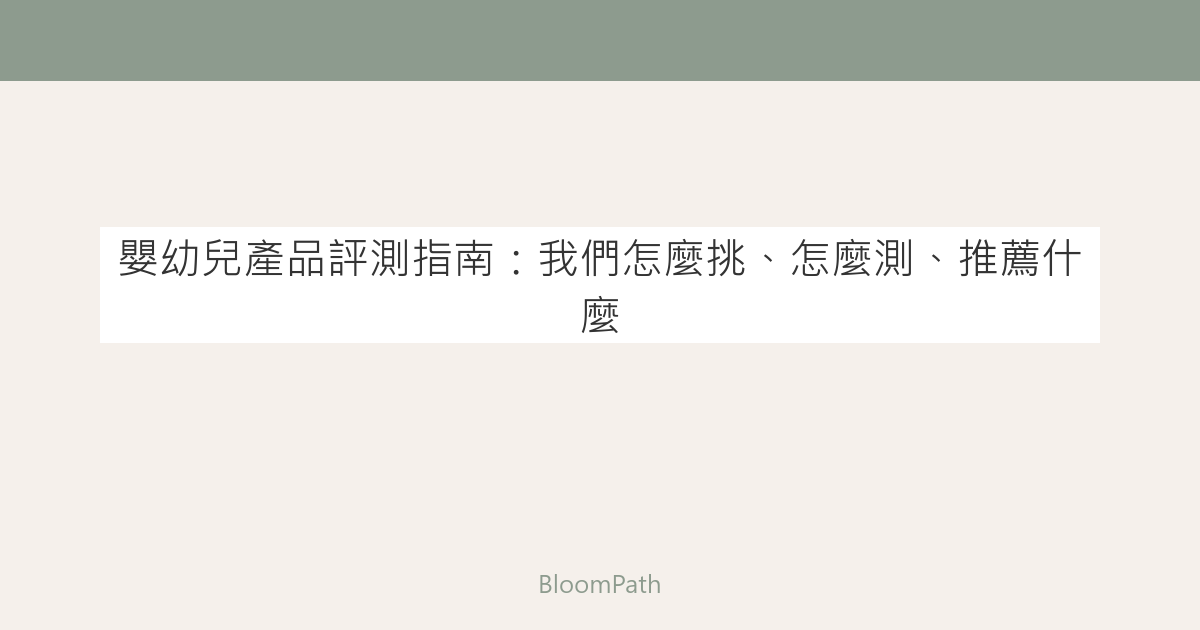
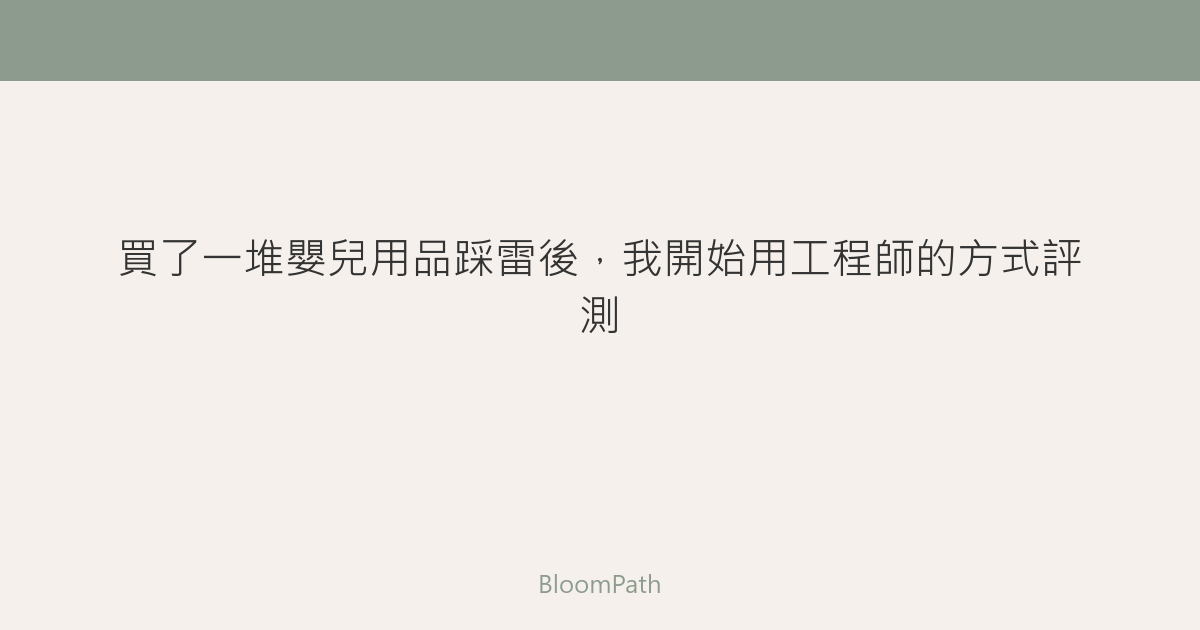
Refactor: 將 10 篇 BP ZH 文章標題改成生活化風格，重新生成對應 OG 圖

Changed region(s): [[0.0925, 0.3619, 0.925, 0.5429]]

diff --git a/src/content/blog/unstructured-play-benefits-zh.md b/src/content/blog/unstructured-play-benefits-zh.md
@@ -1,5 +1,5 @@
 ---
-title: "讓孩子好好玩！非結構遊戲比才藝班更重要的科學理由"
+title: "我把女兒所有才藝班都退了——結果她反而學得更好"
 description: "台灣父母拼命送孩子去才藝班，但哈佛研究和兒福聯盟都說：好好玩耍才是讓孩子心靈強壯的超能力。本文解析非結構遊戲的5大科學益處，並提供蒙特梭利實踐指南。"
 pubDate: "2026-04-12"
 tags: ["非結構遊戲", "蒙特梭利", "幼兒發展", "才藝班", "自由玩耍", "正向教養"]

diff --git a/src/content/blog/sunlight-child-development-outdoors-zh.md b/src/content/blog/sunlight-child-development-outdoors-zh.md
@@ -1,5 +1,5 @@
 ---
-title: "帶寶寶出去曬太陽，真的比你想的更重要：0-2歲戶外日照的科學依據"
+title: "兒科醫師說：每天帶寶寶出去 15 分鐘，近視機率降 3 成"
 description: "每天11分鐘戶外日照，讓寶寶睡眠品質提升55%。台灣兒童近視率世界第一，49%可靠戶外活動預防。這篇文章告訴你0-2歲黃金期，到底要怎麼曬才對。"
 pubDate: "2026-04-14"
 tags: ["嬰幼兒發育", "戶外活動", "兒童健康", "睡眠", "近視預防"]

diff --git a/src/content/blog/daddy-role-in-parenting-zh.md b/src/content/blog/daddy-role-in-parenting-zh.md
@@ -1,5 +1,5 @@
 ---
-title: "爸爸的角色有多重要？父親參與育兒的科學實證"
+title: "老婆說我只會滑手機不會帶小孩——我決定證明她錯了"
 description: "研究一再證明：爸爸參與育兒，不只是媽媽的幫手，更是孩子發展的獨特催化劑。本文帶你看最新科學怎麼說，以及台灣爸爸能從哪裡開始。"
 pubDate: 2026-03-31
 tags: ["爸爸育兒", "父親參與", "兒童發展", "正向教養", "新手爸爸"]

diff --git a/src/content/blog/montessori-home-environment-zh.md b/src/content/blog/montessori-home-environment-zh.md
@@ -1,5 +1,5 @@
 ---
-title: "蒙特梭利居家環境布置完整攻略：各房間設計＋IKEA 改造＋小坪數解法"
+title: "用 IKEA 打造蒙特梭利房間：小坪數也能做到（附改造前後對比）"
 description: "從嬰兒房到廚房，從全新購置到 IKEA 改造，這份指南告訴你如何在台灣的家打造真正能運作的蒙特梭利環境——不需要大坪數，不需要全面裝修。"
 pubDate: 2026-04-01
 lang: "zh-TW"

diff --git a/src/content/blog/child-development-milestones-zh.md b/src/content/blog/child-development-milestones-zh.md
@@ -1,5 +1,5 @@
 ---
-title: "0–6歲發展里程碑完整指南：正常範圍、紅旗警訊、何時找醫師"
+title: "女兒兩歲還不太會說話，我半夜 Google 了一百次——結果發現..."
 description: "有研究根據的0–6歲發展里程碑完整攻略：8大發展領域、各月齡里程碑、正常變異與發展疑慮的區別，以及台灣爸媽何時該找兒科醫師評估。"
 pubDate: "2026-04-01"
 lang: "zh-TW"

diff --git a/src/content/blog/baby-nutrition-health-guide-zh.md b/src/content/blog/baby-nutrition-health-guide-zh.md
@@ -1,5 +1,5 @@
 ---
-title: "嬰幼兒副食品與營養完整指南（0–3歲）"
+title: "副食品第一口就吐出來？別慌，我們家也是這樣過來的"
 description: "有研究支持的0–3歲嬰幼兒飲食完整攻略：母乳與配方奶、副食品添加時機、BLW介紹法、各階段飲食時間表、台灣常見的營養疑問，以及何時需要找醫師。"
 pubDate: "2026-04-01"
 lang: "zh-TW"

diff --git a/src/content/blog/montessori-vs-traditional-preschool-zh.md b/src/content/blog/montessori-vs-traditional-preschool-zh.md
@@ -1,5 +1,5 @@
 ---
-title: "蒙特梭利 vs 傳統幼兒園：科學終於給出答案了（PNAS 最新研究）"
+title: "蒙特梭利幼兒園到底值不值得？我花了三個月研究，結論是..."
 description: "2025 年全球最大規模蒙特梭利 RCT 研究揭密：近 600 個孩子的實驗數據，告訴台灣爸媽蒙特梭利幼兒園到底值不值得。"
 pubDate: 2026-04-01
 updatedDate: 2026-03-31

diff --git a/src/content/blog/positive-parenting-guide-zh.md b/src/content/blog/positive-parenting-guide-zh.md
@@ -1,5 +1,5 @@
 ---
-title: "正向教養完整指南：從理論到每天的實際應用"
+title: "我不打不罵帶大女兒：一個工程師爸爸的正向教養實戰筆記"
 description: "有研究支持的正向教養完整攻略：情緒輔導、自然結果法、溫和設立界限、建立內在動機——適用0–8歲孩子的爸媽。"
 pubDate: 2026-04-01
 lang: "zh-TW"

diff --git a/src/content/blog/montessori-at-home-guide-zh.md b/src/content/blog/montessori-at-home-guide-zh.md
@@ -1,5 +1,5 @@
 ---
-title: "蒙特梭利居家實踐完整指南（0–6歲）"
+title: "我們家客廳變成蒙特梭利教室的那一天（附各年齡實作清單）"
 description: "從零開始打造蒙特梭利居家環境的完整攻略：各房間佈置、各年齡段活動、五大核心原則，還有台灣爸媽最常犯的錯誤。"
 pubDate: 2026-04-01
 lang: "zh-TW"

diff --git a/src/content/blog/baby-product-reviews-guide-zh.md b/src/content/blog/baby-product-reviews-guide-zh.md
@@ -1,5 +1,5 @@
 ---
-title: "嬰幼兒產品評測指南：我們怎麼挑、怎麼測、推薦什麼"
+title: "買了一堆嬰兒用品踩雷後，我開始用工程師的方式評測"
 description: "BloomPath 如何評測嬰幼兒產品——評測標準、紅旗警訊、各類別真正值得買的推薦，以及台灣爸媽常踩的坑。"
 pubDate: "2026-04-01"
 lang: "zh-TW"
